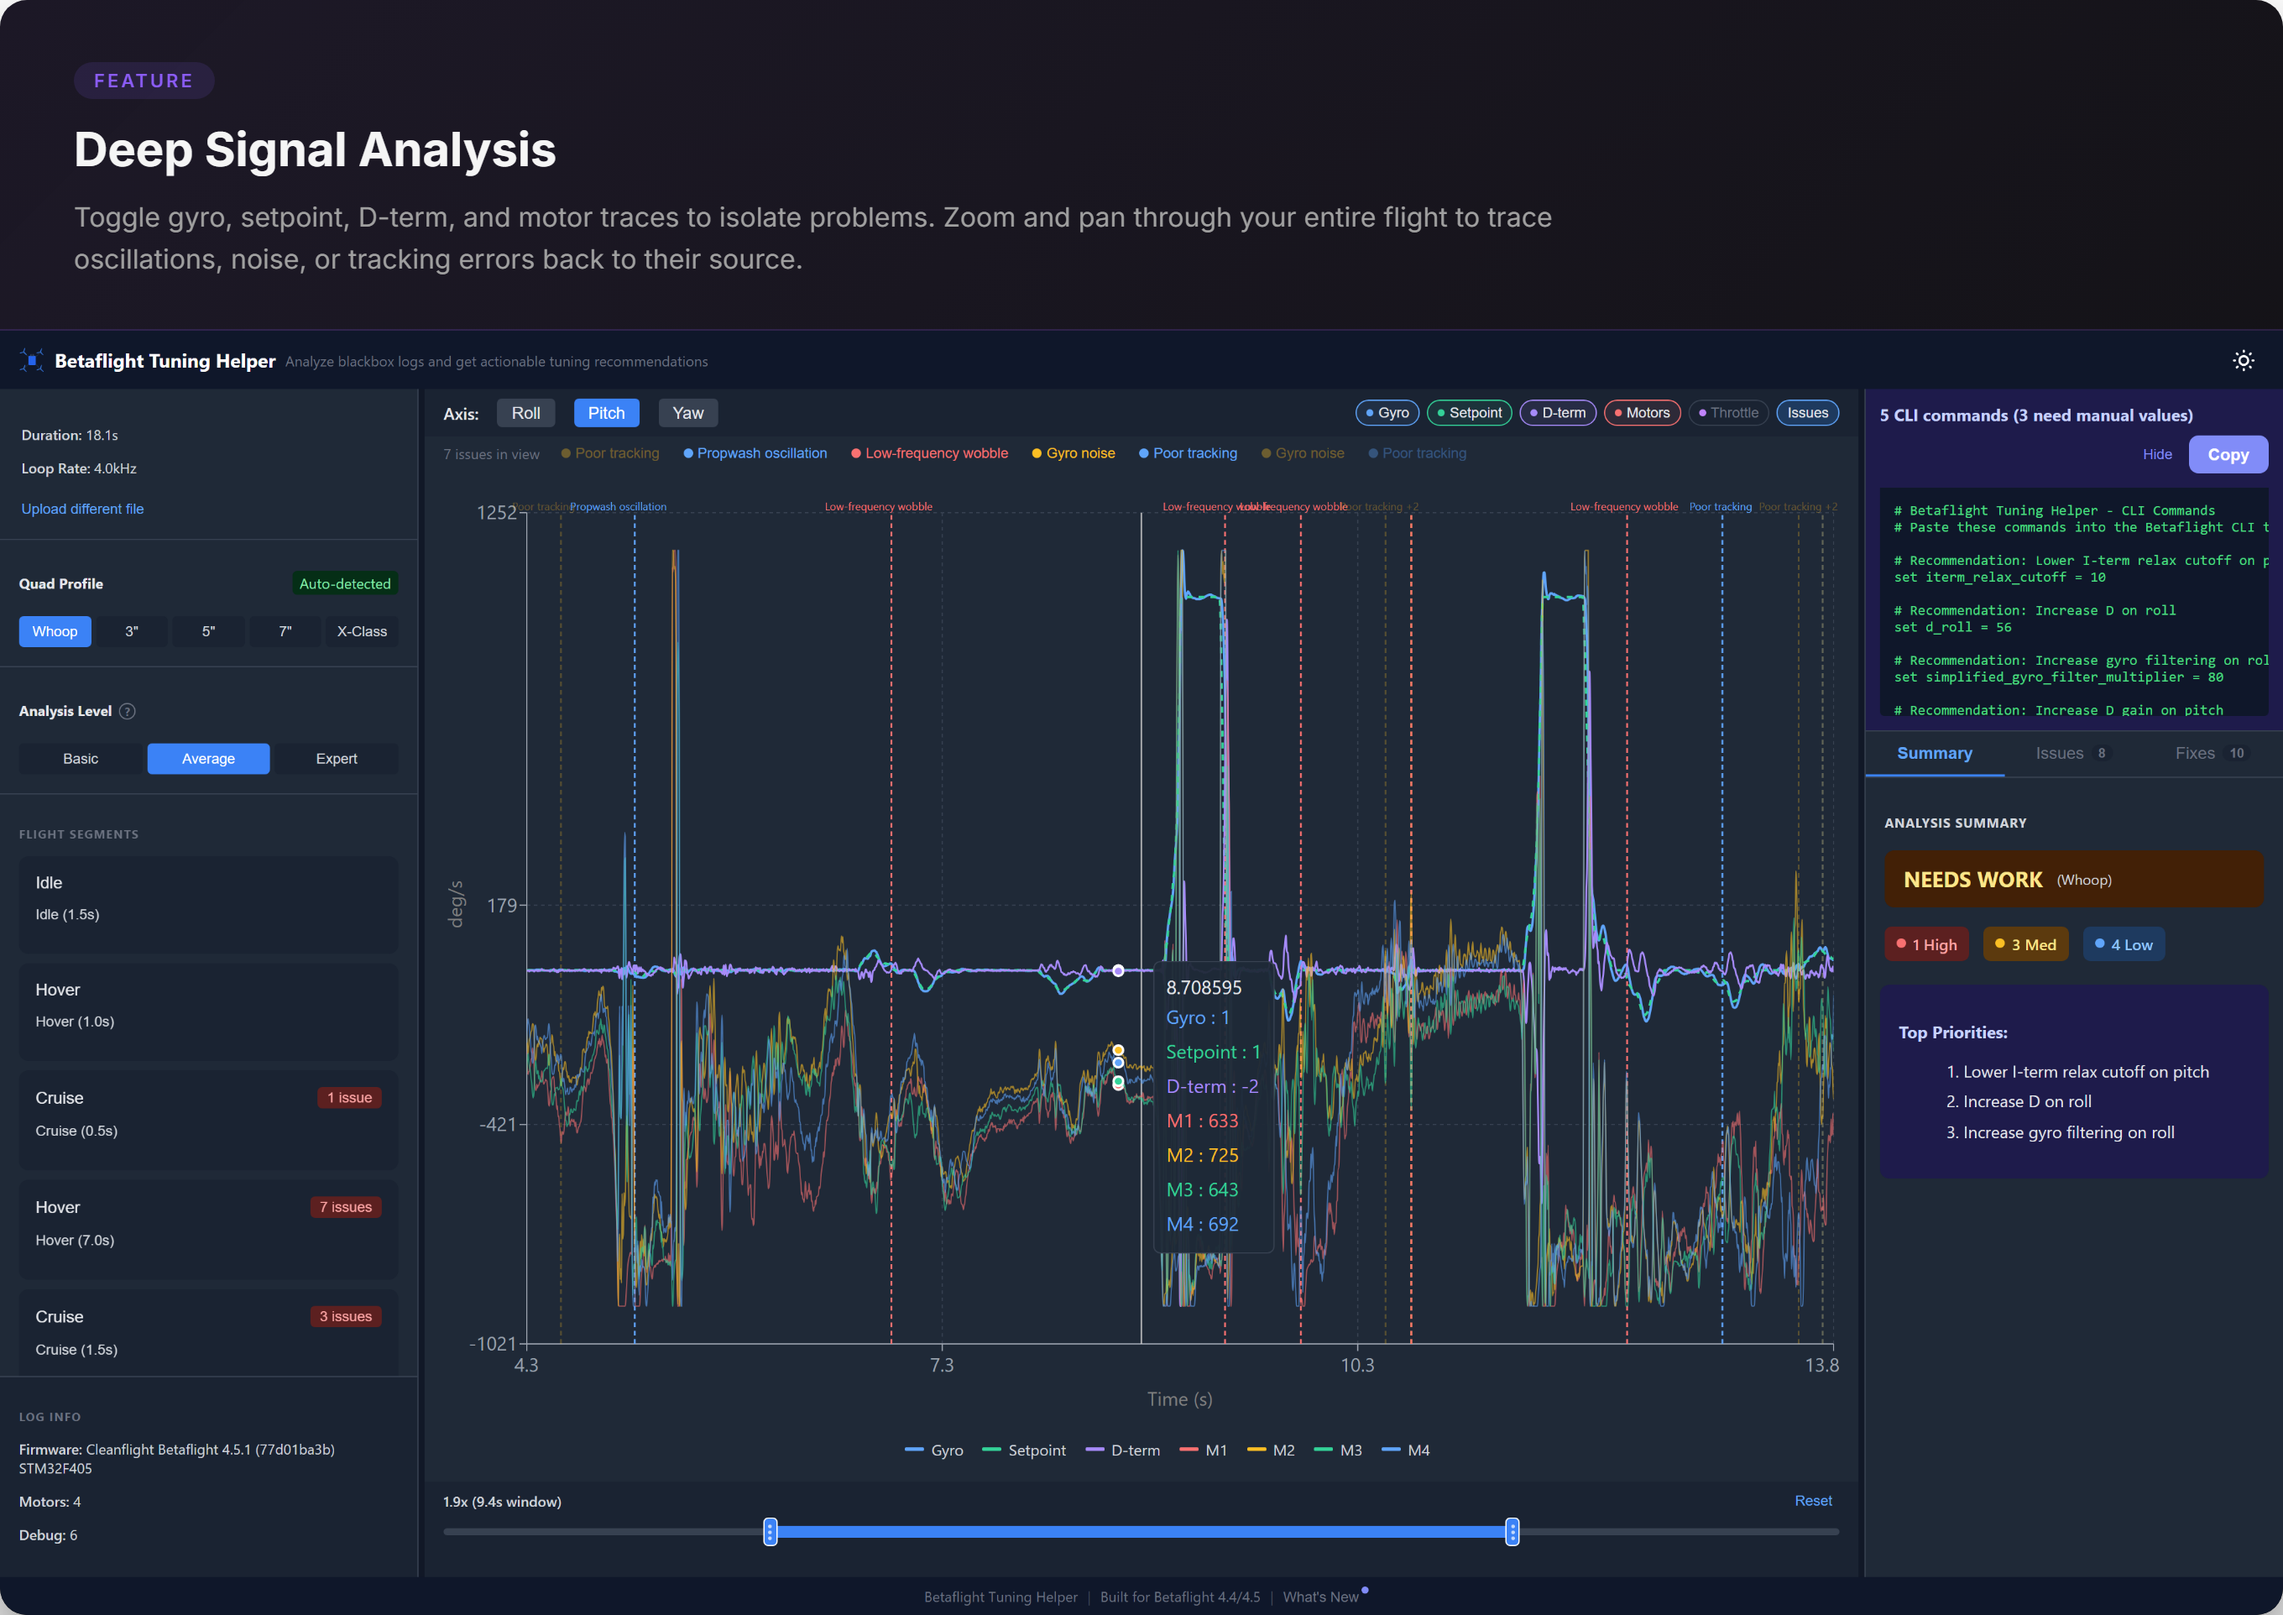
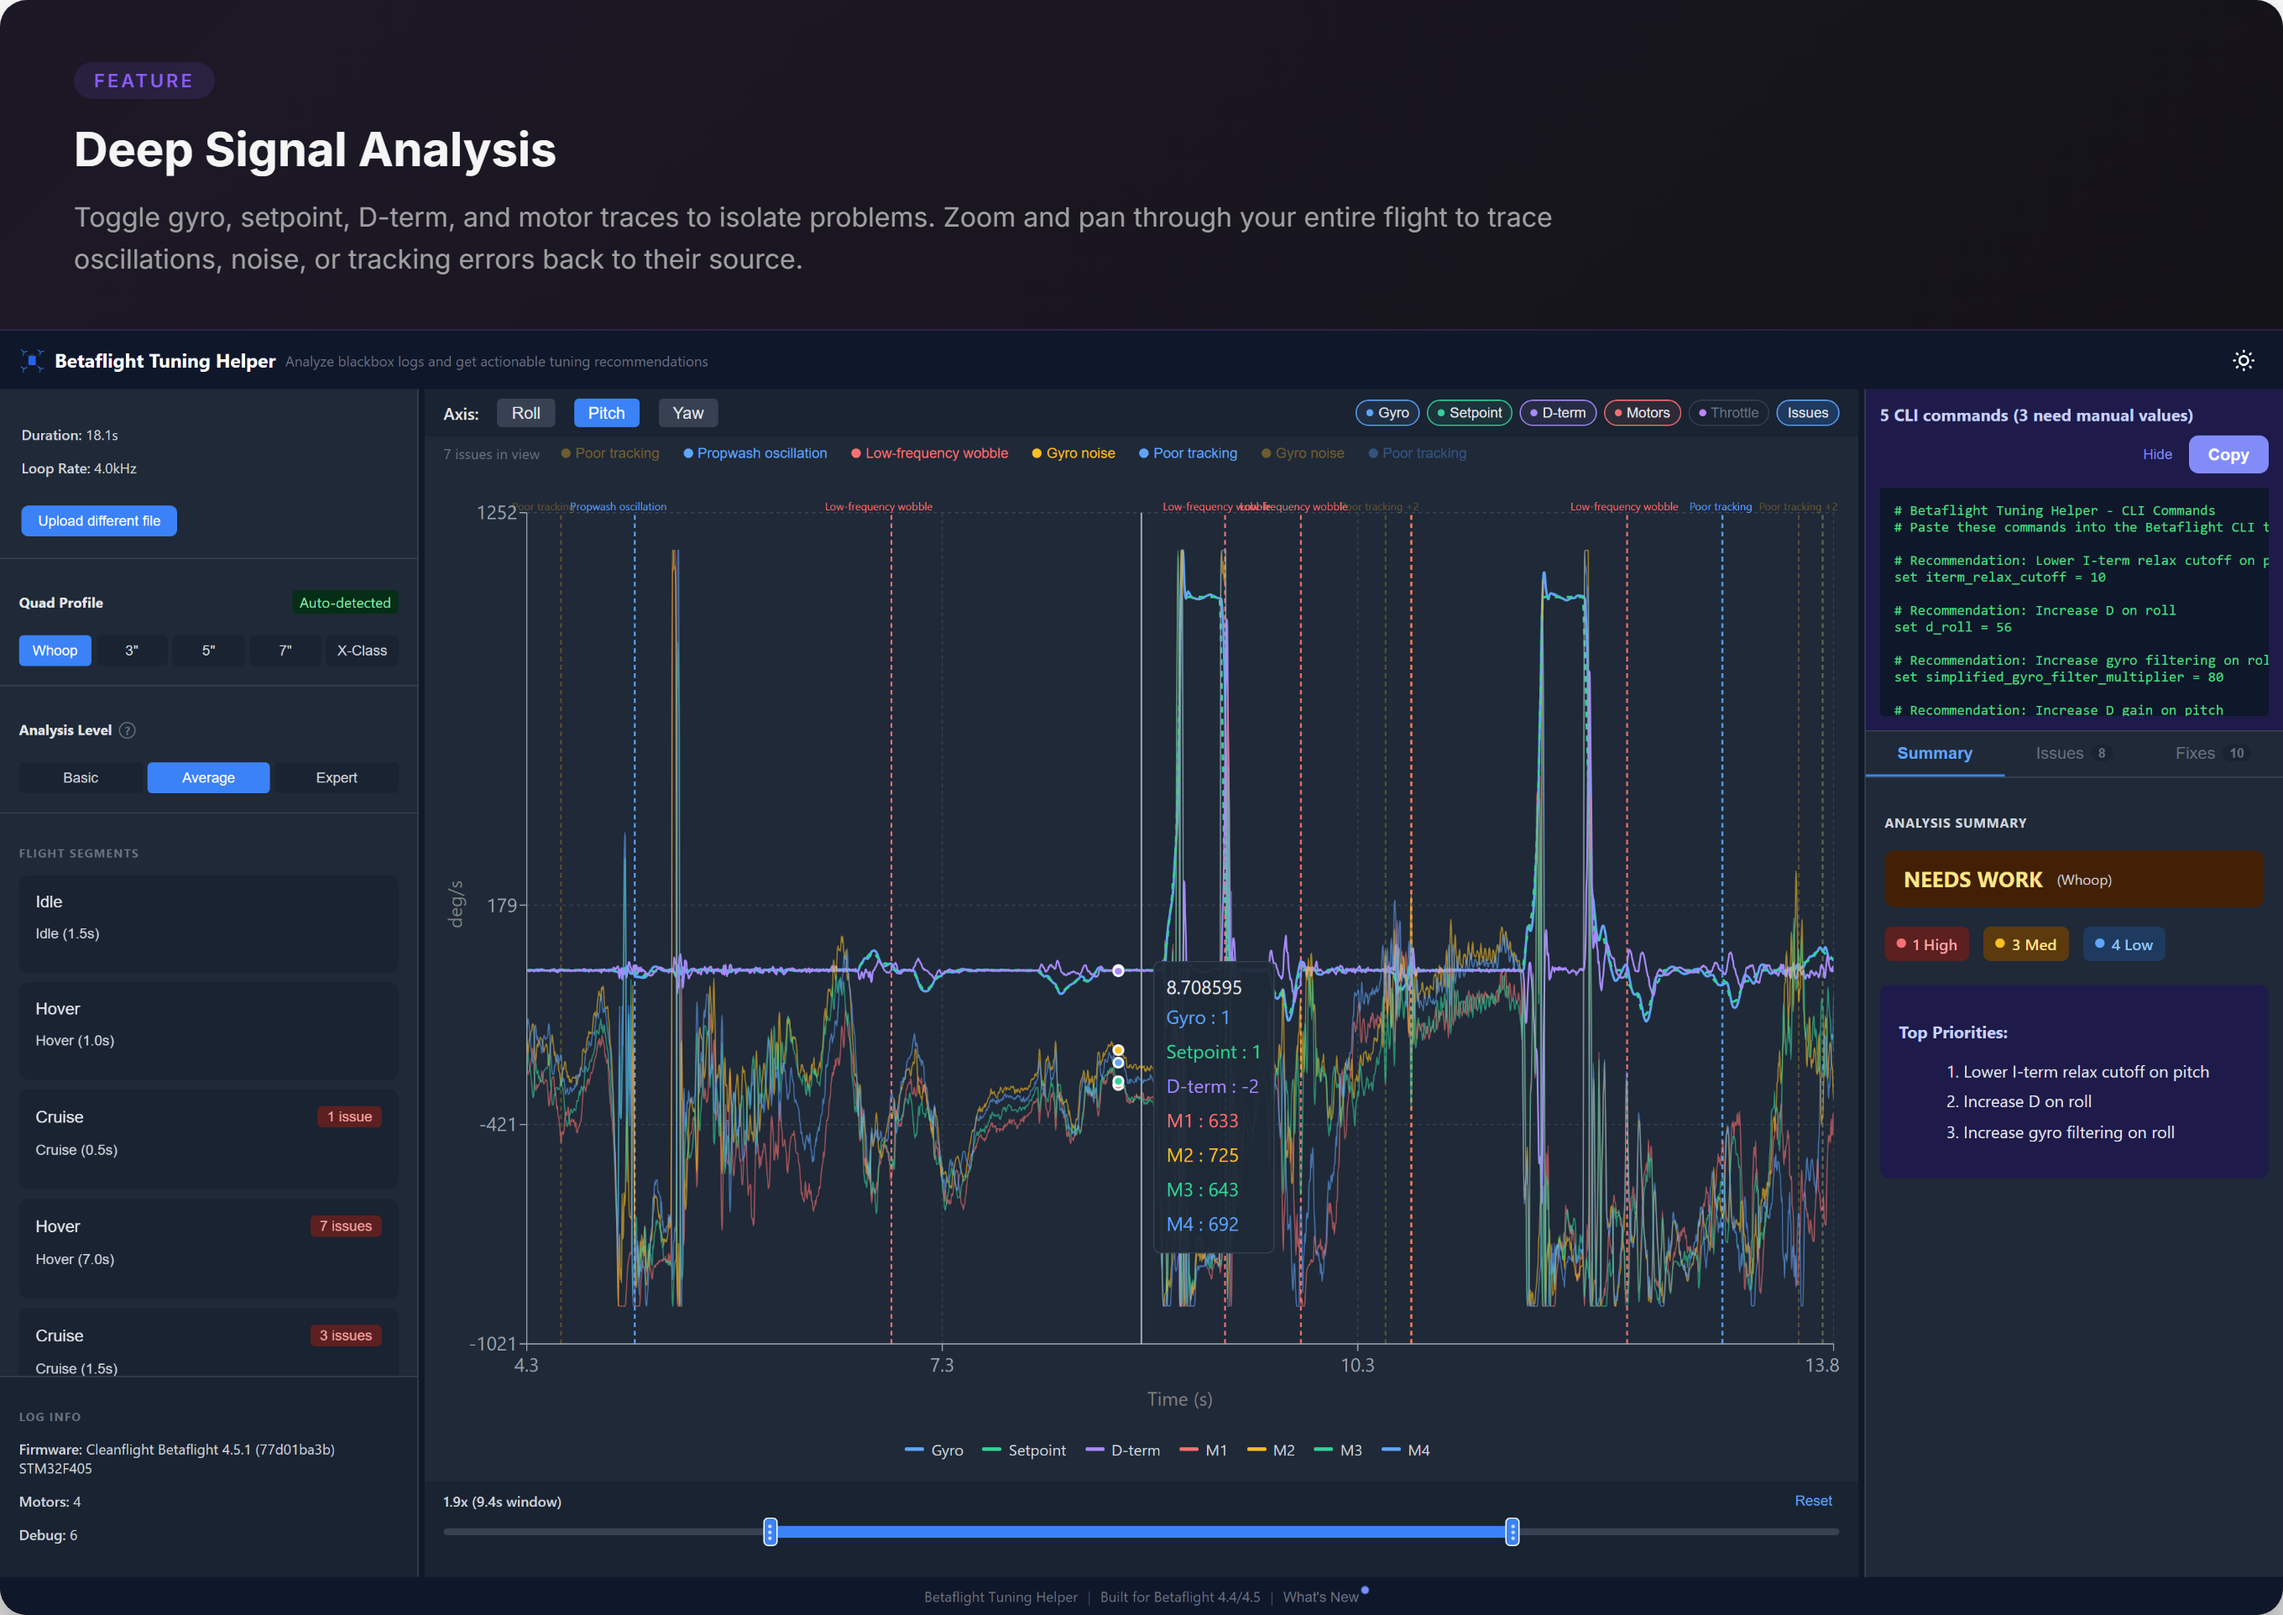
Make the upload different file button more visible

diff --git a/src/components/FileUpload.tsx b/src/components/FileUpload.tsx
@@ -232,6 +232,23 @@ const LinkButton = styled.button`
   }
 `
 
+const ChangeFileButton = styled.button`
+  margin-top: 0.75rem;
+  padding: 0.375rem 0.875rem;
+  font-size: 0.75rem;
+  font-weight: 500;
+  color: ${p => p.theme.colors.button.primaryText};
+  background-color: ${p => p.theme.colors.button.primary};
+  border: none;
+  border-radius: 0.375rem;
+  cursor: pointer;
+  transition: background-color 0.15s;
+
+  &:hover {
+    background-color: ${p => p.theme.colors.button.primaryHover};
+  }
+`
+
 export const FileUpload = observer(() => {
   const { logStore, uiStore, analysisStore } = useStores()
   const [isDragging, setIsDragging] = useObservableState(false)
@@ -404,12 +421,12 @@ export const FileUpload = observer(() => {
                 {logStore.metadata.craftName}
               </p>
             )}
-            <LinkButton
+            <ChangeFileButton
               data-testid="upload-different-file"
               onClick={() => { logStore.reset(); analysisStore.reset(); uiStore.reset() }}
             >
               Upload different file
-            </LinkButton>
+            </ChangeFileButton>
           </MetadataBlock>
         )}
 
